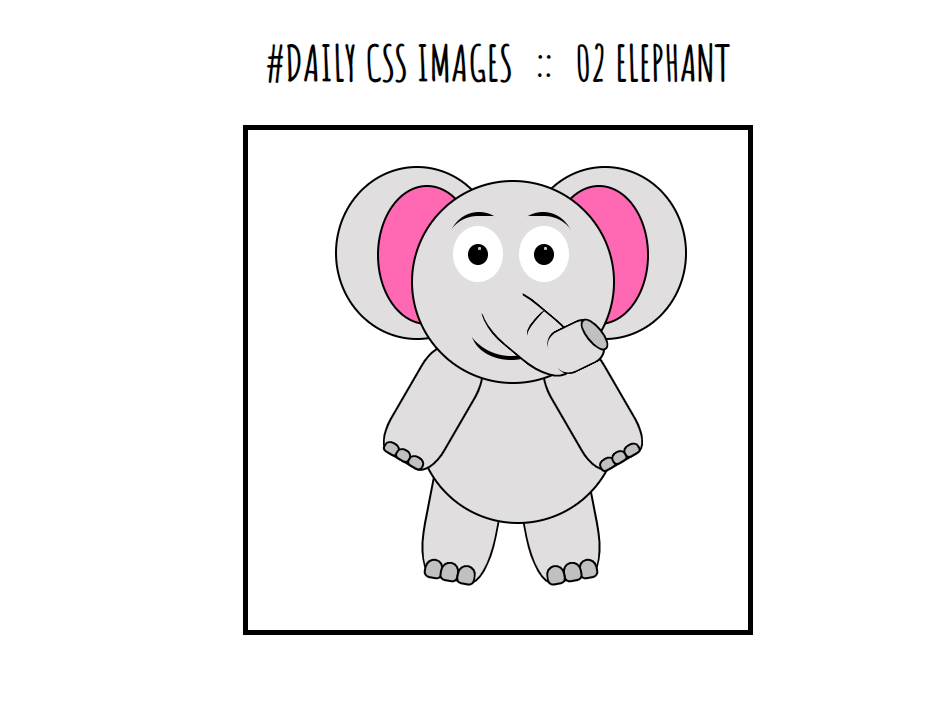
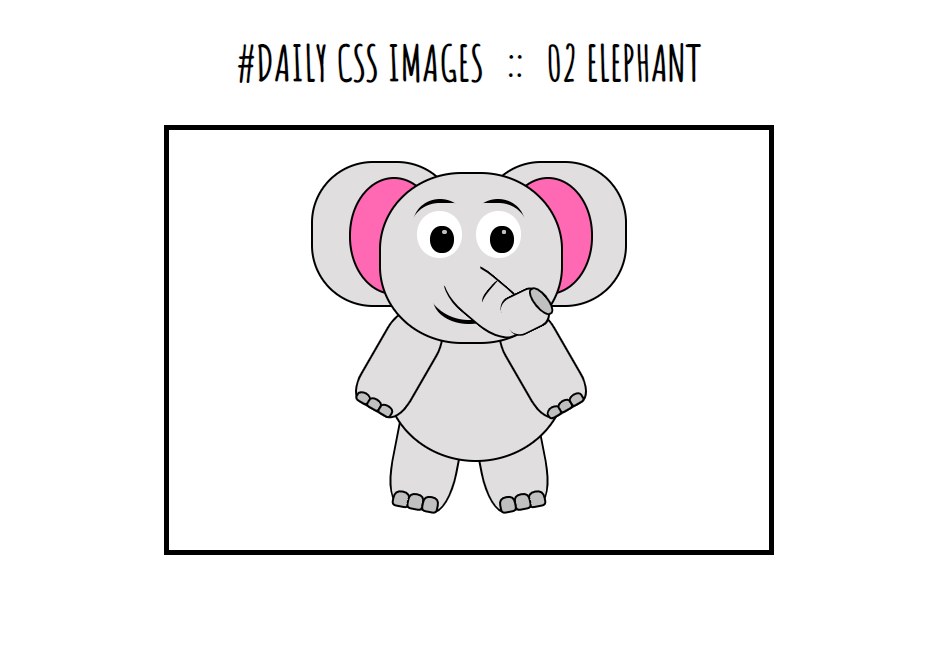
docs: Update screenshot

Changed region(s): [[0.1544, 0.1497, 0.8339, 0.8982], [0.2471, 0.0599, 0.7721, 0.1198], [0.4633, 0.5988, 0.4941, 0.6287]]

diff --git a/02 Elephant/style.css b/02 Elephant/style.css
@@ -20,8 +20,8 @@ span {
   margin: auto;
   display: block;
   margin-top: 1%;
-  width: 500px;
-  height: 500px;
+  width: 600px;
+  height: 420px;
   background: none;
 	border: 5px solid #000;
 }
@@ -29,11 +29,11 @@ span {
 .head {
 	position: absolute;
 	background: #e0dede;
-	width: 40%;
+	width: 30%;
 	height: 40%;
 	top: 10%;
-	left: 32.5%;
-	border-radius: 50%;
+	left: 35%;
+	border-radius: 45%;
 }
 
 .head-overlay {
@@ -41,7 +41,7 @@ span {
   height: 100%;
   position: absolute;
   background: #e0dede;
-  border-radius: 50%;
+  border-radius: 45%;
   z-index: 6;
 	border: 2px solid #000;
 }
@@ -64,7 +64,6 @@ span {
 .trunk-overlay {
 	position: absolute;
 	background: #e0dede;
-/* 			background: #fff; */
 	width: 99%;
 	height: 48%;
 	top: -18%;
@@ -146,7 +145,7 @@ span {
 	height: 85%;
 	right: -38%;
 	top: -7%;
-	border-radius: 50%;
+	border-radius: 42%;
 	border: 2px solid #000;
 	z-index: 4;
 }
@@ -213,7 +212,6 @@ span {
 	right: 21%;
 	border-radius: 50%;
 	z-index: 7;
-/* 	border: 2px solid #000; */
 }
 
 .left-eye {
@@ -223,8 +221,8 @@ span {
 .pupil {
 	position: absolute;
 	background: #000;
-	width: 40%;
-	height: 37%;
+	width: 53%;
+	height: 58%;
 	left: 30%;
 	top: 31.5%;
 	border-radius: 50%;
